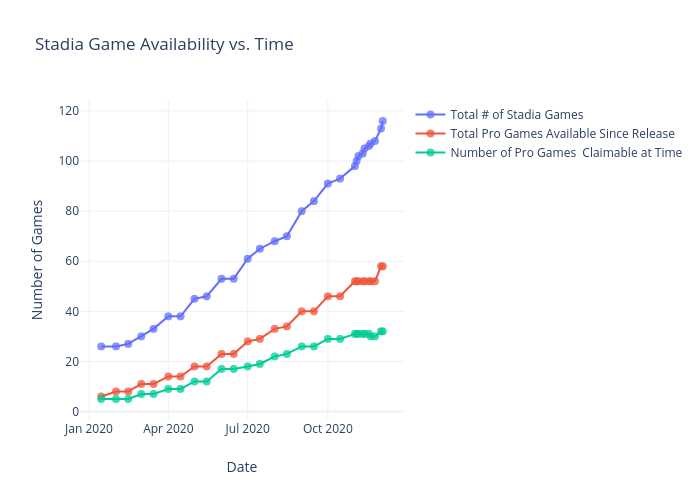
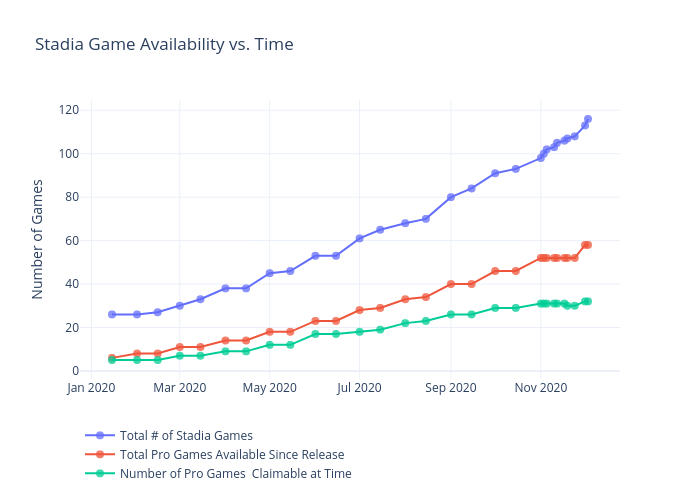
Add files via upload
11/29 data

diff --git a/games/figure.js b/games/figure.js
@@ -257,24 +257,30 @@ var figure = {
         "xaxis": {
             "type": "date",
             "range": [
-                "2019-12-24 23:14:47.4591",
-                "2020-12-24 00:45:12.5409"
+                "2019-12-25 18:11:50.6901",
+                "2020-12-23 05:48:09.3099"
             ],
             "title": {
-                "text": "Date"
+                "text": ""
             },
             "autorange": true
         },
         "yaxis": {
             "type": "linear",
             "range": [
-                -5.10702875399361,
-                126.1070287539936
+                -2.703339147769749,
+                123.70333914776975
             ],
             "title": {
                 "text": "Number of Games"
             },
             "autorange": true
+        },
+        "legend": {
+            "x": 0,
+            "y": -0.15,
+            "bgcolor": "rgba(255, 255, 255, 0.01)",
+            "orientation": "h"
         },
         "autosize": true,
         "template": {
